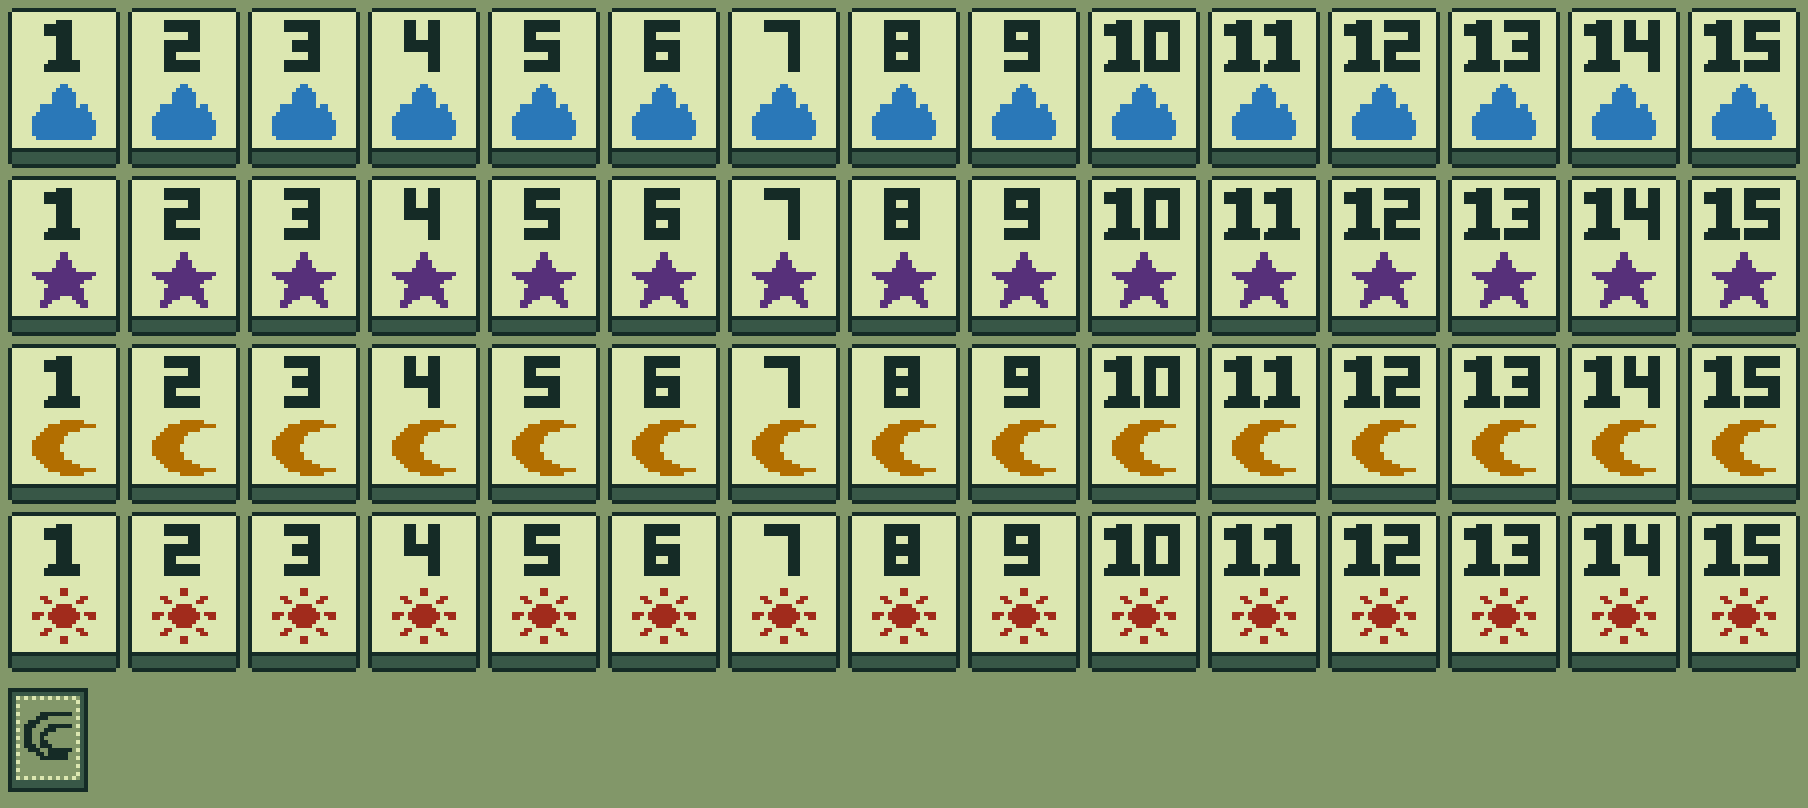
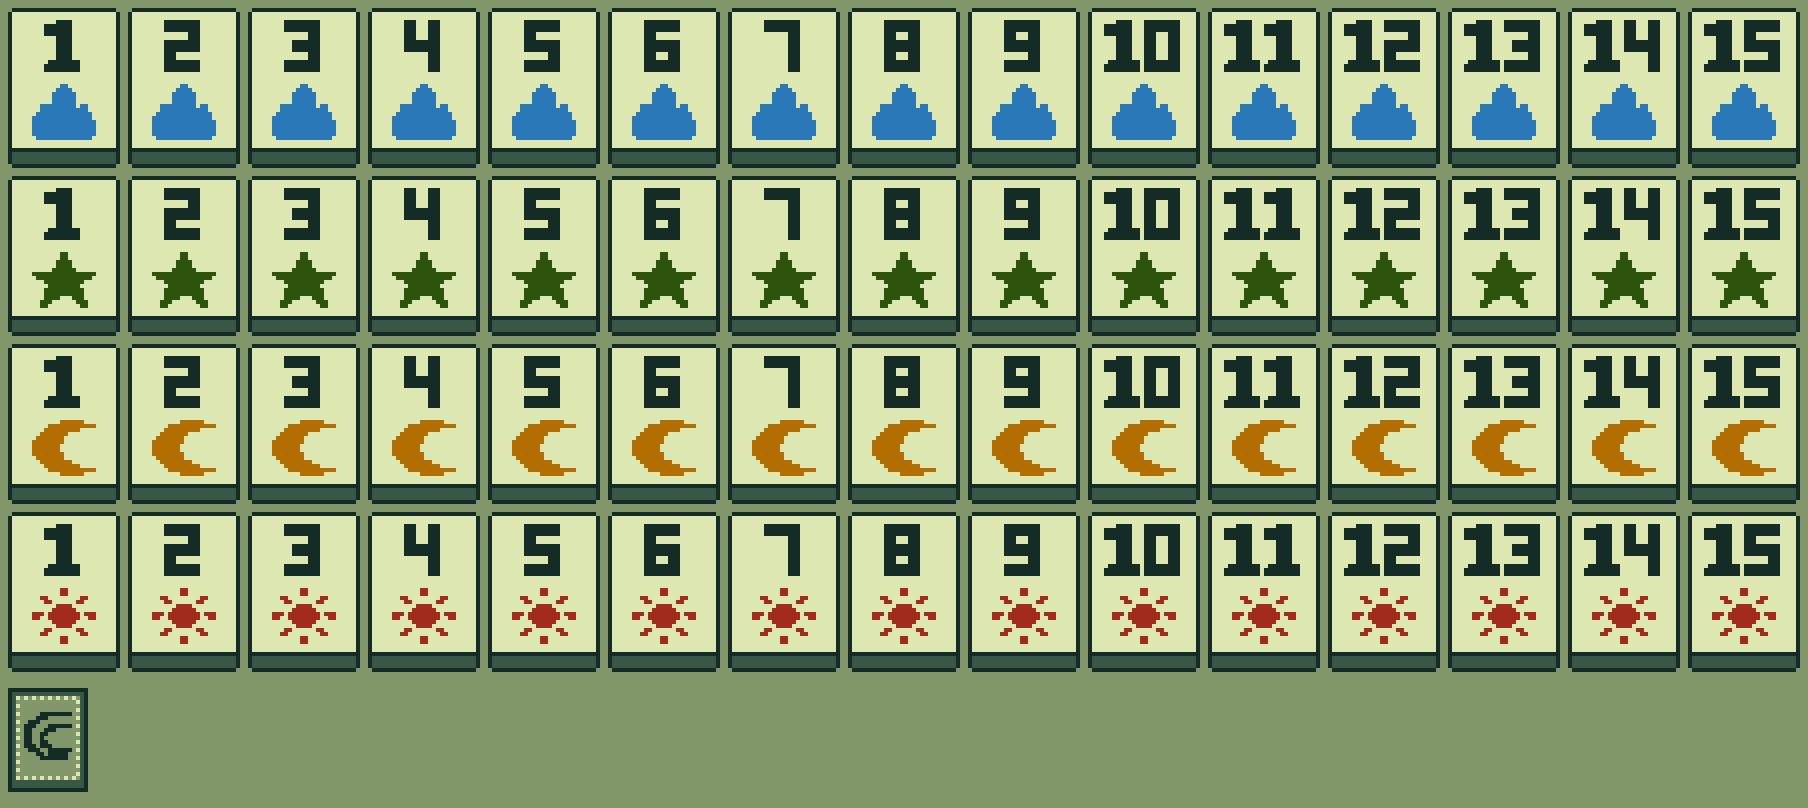
feat(web): ink the star suit deep yellow-green #2C540C
Carry the owner's star colour from the palette token through the rebuilt
atlases, manifest, record and contact sheets. Only PLTE entry 6 differs from
Q2, and the asset test proves it by restoring Q2's ink and matching each
published Q2 checksum. Contrast on paper is 6.8:1; the Machado red-green
minimum drops to 13.4 (star vs sun), so the spec now says those two read by
silhouette.

diff --git a/design/assets/build.test.ts b/design/assets/build.test.ts
@@ -139,14 +139,39 @@ test("product input record matches the converter, tests and provenance", () => {
   expect(record.trimEnd().split("\n").sort()).toEqual(expected.sort());
 });
 
-test("in-memory regeneration matches each committed output and its published Q2 checksum", () => {
+// The star ink is the only change since Q2. Every PNG keeps the star (or, in the grey
+// sheet, its grey) at PLTE entry 6; restoring Q2's #57307A (grey #434343) restores Q2's bytes.
+function withQ2Star(png: Buffer, grey: boolean) {
+  const copy = Buffer.from(png);
+  for (let pos = 8; pos < copy.length; ) {
+    const length = copy.readUInt32BE(pos);
+    if (copy.toString("ascii", pos + 4, pos + 8) === "PLTE") {
+      const entry = pos + 8 + 6 * 3;
+      expect([...copy.subarray(entry, entry + 3)]).toEqual(
+        grey ? [0x4a, 0x4a, 0x4a] : [...palette.star],
+      );
+      copy.set(grey ? [0x43, 0x43, 0x43] : [0x57, 0x30, 0x7a], entry);
+      copy.writeUInt32BE(
+        crc32(copy.subarray(pos + 4, pos + 8 + length)),
+        pos + 8 + length,
+      );
+    }
+    pos += length + 12;
+  }
+  return copy;
+}
+
+test("in-memory regeneration matches each committed output and, with Q2's star ink, its published Q2 checksum", () => {
   assert.deepEqual(fresh.manifest, manifest);
   expect(fresh.record).toEqual(record);
   const published = checksums("hashes.sha256");
   expect(fresh.outputs.size).toBe(18);
   for (const [path, data] of fresh.outputs) {
     expect(data.equals(readFileSync(join(root, path)))).toBe(true);
-    assert.equal(sha256(data), published.get(`outputs/${basename(path)}`));
+    assert.equal(
+      sha256(withQ2Star(data, path.endsWith("contact-gray-1x.png"))),
+      published.get(`outputs/${basename(path)}`),
+    );
   }
   expect(manifest.cells).toHaveLength(15);
   for (const { id, foreground, overrideCount } of manifest.cells) {

diff --git a/tests/visual-contracts/assets.test.ts b/tests/visual-contracts/assets.test.ts
@@ -44,7 +44,7 @@ test("sixty face addresses per atlas match the PNG grid and exclude the shared b
 test("atlas metadata, cell palettes, glyph boxes and font identities are frozen", () => {
   const ramp = ["#152B26", "#385747", "#829769", "#DCE7B1"];
   const faceBase = ["#152B26", "#385747", "#DCE7B1"];
-  const inks = ["#2A78B8", "#57307A", "#B26E00", "#A12B1C"];
+  const inks = ["#2A78B8", "#2C540C", "#B26E00", "#A12B1C"];
   expect(backColors).toEqual(ramp);
   expect(atlases.wide).toEqual({
     url: "/art/atlas-wide.png",

diff --git a/tests/visual-contracts/tokens.test.ts b/tests/visual-contracts/tokens.test.ts
@@ -20,7 +20,7 @@ test("sRGB palette, tile dimensions and motion match the locked values", () => {
     sage: [130, 151, 105],
     paper: [220, 231, 177],
     cloud: [42, 120, 184],
-    star: [87, 48, 122],
+    star: [44, 84, 12],
     moon: [178, 110, 0],
     sun: [161, 43, 28],
   });

diff --git a/apps/web/src/visual/tokens.ts b/apps/web/src/visual/tokens.ts
@@ -4,7 +4,7 @@ export const palette = {
   sage: [0x82, 0x97, 0x69],
   paper: [0xdc, 0xe7, 0xb1],
   cloud: [0x2a, 0x78, 0xb8],
-  star: [0x57, 0x30, 0x7a],
+  star: [0x2c, 0x54, 0x0c],
   moon: [0xb2, 0x6e, 0x00],
   sun: [0xa1, 0x2b, 0x1c],
 } as const;

diff --git a/docs/design/assets.md b/docs/design/assets.md
@@ -13,7 +13,7 @@
 
 팔레트와 숫자 칸의 규격은 [시각 명세 §1~3](visual-spec.md)에 있다. 두 PNG 합계 ≤50,000바이트, 한 변 ≤512px. 프레임 크기와 무관한 애플리케이션 경로이며 Vite public에서 dist로 복사한다. 네트워크 실패 시에도 타일 이름과 수치를 DOM 글자로 표시한다.
 
-Q2 후보 5개 합계는 2517B다. bayer-2.png(128B), bayer-5.png(132B), bayer-8.png(129B)는 Q1의 DOM 단색 결정에 따라 검사용으로만 보관한다. Q2 원본을 처리한 두 아틀라스는 각각 1173B·955B(합계 2128B)였다. 숫자 0..9, 구름·별·달·해, 등판 마크의 수정 픽셀 수는 각각 0이다. 숫자의 가로·세로 최소 획 2 이상, 해의 연결 성분은 36·5·5·4·4·4·4·4·4px였다. 제품 판정 파일은 `design/assets/manifest.json`이다. `files`는 배포 PNG 두 항목의 배열로 각 항목에 `{url,path,width,height,bytes,sha256,allowedColors,alpha}`를 둔다. path는 저장소 루트 상대 경로, url은 /art/ 절대 경로, sha256은 소문자 64자리다. `cells`는 원본 15셀의 `{id,foreground,overrideCount}` 배열이며 foreground는 수정 전 전경 수다. 배포 파일은 manifest의 bytes·sha256과 일치해야 한다. 같은 Q2 입력·인코더이면 1173/955B와 Q2 출력 해시까지 일치해야 한다. 원본·인코더를 바꾼 경우 새 출처·재생성 검사·Q2 비교를 기록하고 승인된 계약 변경 입력에서 manifest를 함께 갱신한다.
+Q2 후보 5개 합계는 2517B다. bayer-2.png(128B), bayer-5.png(132B), bayer-8.png(129B)는 Q1의 DOM 단색 결정에 따라 검사용으로만 보관한다. Q2 원본을 처리한 두 아틀라스는 각각 1173B·955B(합계 2128B)였다. 숫자 0..9, 구름·별·달·해, 등판 마크의 수정 픽셀 수는 각각 0이다. 숫자의 가로·세로 최소 획 2 이상, 해의 연결 성분은 36·5·5·4·4·4·4·4·4px였다. 제품 판정 파일은 `design/assets/manifest.json`이다. `files`는 배포 PNG 두 항목의 배열로 각 항목에 `{url,path,width,height,bytes,sha256,allowedColors,alpha}`를 둔다. path는 저장소 루트 상대 경로, url은 /art/ 절대 경로, sha256은 소문자 64자리다. `cells`는 원본 15셀의 `{id,foreground,overrideCount}` 배열이며 foreground는 수정 전 전경 수다. 배포 파일은 manifest의 bytes·sha256과 일치해야 한다. 같은 Q2 입력·인코더이면 1173/955B와, 별 항목을 Q2 값으로 되돌린 바이트의 Q2 출력 해시까지 일치해야 한다(아래 자동 검사). 원본·인코더를 바꾼 경우 새 출처·재생성 검사·Q2 비교를 기록하고 승인된 계약 변경 입력에서 manifest를 함께 갱신한다.
 
 ### 생성 원본 세트
 
@@ -39,7 +39,7 @@ W2 asset-production은 게시된 W1 기준 SHA에서 `docs/design/q2-source/`를
 
 **도구 확인.** 현장 Bun 1.3.6, Chrome 158.0.8127.89, Python 3.10.11/Pillow 12.0.0 확인. 보관된 Q2 스크립트는 원본·조판에 headless Chrome을 썼다. 제품 build.ts와 검사는 위 RGB 행 복원·indexed PNG 인코딩을 Bun 내장 node:zlib로 수행한다. Chrome은 대조 시트·브라우저 캡처에만 쓴다. npm 의존성 추가 없음. 제품 gate에서는 Bun으로 커밋된 PNG 청크 CRC를 검증하고 IDAT를 풀어 행 필터·PLTE/tRNS를 적용해 실제 픽셀을 검사한다. Chrome, Python, Pillow, GPU와 생성 호출은 제품 gate·Docker 빌드에 필요하지 않다.
 
-**자동 검사.** `bun test design/assets`는 세 raw PNG의 SHA-256을 제품 provenance 및 게시된 원본 체크섬과 대조한다. 원본+overrides에서 15셀 마스크와 배포 PNG 둘을 메모리에 새로 생성한다. 수정 좌표 중복/범위/동일값·floor(foreground/10) 상한 및 cells 기록을 다시 계산하고 세 커밋 마스크와 두 배포 PNG를 바이트 단위 대조한다. 기본 입력에서는 Q2 hashes.sha256의 해당 5항목과도 같아야 한다. asset-production, integrate-modules와 verify-release가 각 HEAD에서 이 명령을 독립 실행한다. manifest의 각 파일이 존재하고 이름 목록·크기·예산·SHA가 맞아야 한다. 각 texel은 alpha∈{0,255}, 비투명 색은 해당 셀의 허용 집합에 속해야 한다. 꼭짓점과 unused 영역의 알파는 0, 몸체·등판 내부는 255. 글리프 영역에서는 해당 마스크 밖 paper, 안쪽은 정확히 ink 또는 해당 문양색이다. 아틀라스별 60쌍 모두 다르고, 와이드·컴팩트에서 추출한 같은 패의 숫자·문양 마스크가 일치해야 한다. 0..9의 10개 마스크는 비어 있지 않고 서로 다르며, 모든 행·열의 비어 있지 않은 연속 획 길이 ≥2. 네 문양 해시가 다르고 해의 8방향 연결 성분은 큰 원반 1+분리된 살 8. 등판은 숫자나 문양 셀과 다르다. Bayer는 각 위치를 CPU 임곗값과 대조하고 점유율 2/5/8칸을 확인한다. 작업자는 회색조·단일 잉크 시트 결과를 기록한다. 소유자 개인의 1배·정수배 판독은 게시 후 체크로 남긴다.
+**자동 검사.** `bun test design/assets`는 세 raw PNG의 SHA-256을 제품 provenance 및 게시된 원본 체크섬과 대조한다. 원본+overrides에서 15셀 마스크와 배포 PNG 둘을 메모리에 새로 생성한다. 수정 좌표 중복/범위/동일값·floor(foreground/10) 상한 및 cells 기록을 다시 계산하고 세 커밋 마스크와 두 배포 PNG를 바이트 단위 대조한다. 2026-11-26 별 잉크 변경(#57307A → #2C540C) 뒤로 모든 출력 PNG는 PLTE 6번 항목(회색조 시트는 그 회색 #4A4A4A)만 Q2와 다르다. 기본 입력에서 그 항목을 Q2 값 #57307A(회색조 #434343)로 되돌린 바이트가 Q2 hashes.sha256의 해당 항목과 같아야 한다. 현재 출력의 해시는 manifest와 record에 있다. asset-production, integrate-modules와 verify-release가 각 HEAD에서 이 명령을 독립 실행한다. manifest의 각 파일이 존재하고 이름 목록·크기·예산·SHA가 맞아야 한다. 각 texel은 alpha∈{0,255}, 비투명 색은 해당 셀의 허용 집합에 속해야 한다. 꼭짓점과 unused 영역의 알파는 0, 몸체·등판 내부는 255. 글리프 영역에서는 해당 마스크 밖 paper, 안쪽은 정확히 ink 또는 해당 문양색이다. 아틀라스별 60쌍 모두 다르고, 와이드·컴팩트에서 추출한 같은 패의 숫자·문양 마스크가 일치해야 한다. 0..9의 10개 마스크는 비어 있지 않고 서로 다르며, 모든 행·열의 비어 있지 않은 연속 획 길이 ≥2. 네 문양 해시가 다르고 해의 8방향 연결 성분은 큰 원반 1+분리된 살 8. 등판은 숫자나 문양 셀과 다르다. Bayer는 각 위치를 CPU 임곗값과 대조하고 점유율 2/5/8칸을 확인한다. 작업자는 회색조·단일 잉크 시트 결과를 기록한다. 소유자 개인의 1배·정수배 판독은 게시 후 체크로 남긴다.
 
 **코드 도형.** 펠트·그림자·테두리·바닥·받침·칩 잔액·차례선·포커스·버튼·패널은 메시/CSS/DOM이다. 앞면 몸체와 등판 체커는 스크립트가 생성 원본 마스크에 더한 기하다. 각 4×4 Bayer 테스트 PNG는 도구의 대조 시트 전용이다. 오디오 파일·워드마크 이미지·전체 화면 배경 파일은 배포 목록에 없다.
 

diff --git a/docs/design/visual-spec.md b/docs/design/visual-spec.md
@@ -7,7 +7,7 @@
 | 결정 | 적용값 | 전환 시 바꿀 곳 |
 | --- | --- | --- |
 | G1 무대 | **고정 경사 직교 B.** Q1에서 비교 대상 A와 B 모두 12/12 조합의 혼합 블록 0, 읽는 앞면 17개 원본 픽셀 차이 0. B는 CPU 중앙값 1.00ms, 동기 4.00ms, 84회 그리기였다. | 판독 실패가 반복될 때만 평면 A와 앵커를 재검토한다. 비용 초과 시 table-scene이 B에서 병목을 수정한 뒤 동일 픽셀·성능 시편 전체를 재실행한다. |
-| G2 문양 | S. 파랑 구름, 보라 별, 호박 달, 빨강 해 | K로 전환하려면 별을 #B26E00, 달을 #1E7A3C로 바꾸고 아틀라스·색각 검사를 다시 실행한다. |
+| G2 문양 | S. 파랑 구름, 진한 연두 별, 호박 달, 빨강 해. 별은 2026-11-26 소유자 지시로 보라 #57307A에서 진한 연두 #2C540C로 바꿨다. | 문양색을 바꾸려면 `apps/web/src/visual/tokens.ts`의 해당 색만 고치고 `bun design/assets/build.ts`로 아틀라스·manifest·record를 다시 만든 뒤 §1의 대비·색각 값을 다시 적는다. |
 | G3 좁은 창 | DOM 전용 컴팩트. 같은 조작부로 WebGL 실패도 처리한다. | 작은 장면을 추가할 때는 컴팩트 중앙의 직전 제출만 Canvas로 교체하고 터치·청크 예산을 다시 잰다. |
 | G4 제작 범위 | 문양·숫자·등판 표식은 Codex 생성, 몸체·외곽선·턱·등판 테두리·체커·디더는 코드. 픽셀 수정은 원본 마스크 전경 수의 10%까지. | 선·체커까지 생성하려면 매니페스트의 원본 종류를 늘리고 Q2를 다시 통과한다. |
 
@@ -24,11 +24,11 @@
 | sage | #829769 | 바닥, 탁자 테두리 윗면, 비활성 버튼 |
 | paper | #DCE7B1 | 패 면, 상태·명령행 배경, 어두운 패널의 글자 |
 | cloud | #2A78B8 | 세 봉우리와 수평 밑변 |
-| star | #57307A | 속이 찬 다섯 꼭짓점 |
+| star | #2C540C | 속이 찬 다섯 꼭짓점(진한 연두) |
 | moon | #B26E00 | 오른쪽이 빈 초승달 |
 | sun | #A12B1C | 원반과 1px 이상 떨어진 광선 여덟 개 |
 
-문양색은 paper 위의 해당 글리프 전용이다. WCAG 대비는 ink/paper 11.5, paper/pine 6.1, ink/sage 4.7이다. 글자·비활성 사유는 이 세 쌍만 쓴다. 각 문양은 paper와 3.6/7.6/3.1/5.6 이상(반올림)이고 선택·오류·차례는 형태와 문구로 읽는다. 회색조에서도 별의 몸통과 해의 분리된 광선을 식별해야 한다. 세트 S의 Machado 모델 dE76 최솟값은 적색맹 23.9, 녹색맹 20.2, 청색맹 28.6이다. 모델값과 사람의 판독 시험을 각각 기록한다.
+문양색은 paper 위의 해당 글리프 전용이다. WCAG 대비는 ink/paper 11.5, paper/pine 6.1, ink/sage 4.7이다. 글자·비활성 사유는 이 세 쌍만 쓴다. 각 문양은 paper와 3.6/6.8/3.1/5.6 이상(반올림)이고 선택·오류·차례는 형태와 문구로 읽는다. 회색조에서도 별의 몸통과 해의 분리된 광선을 식별해야 한다. 별을 진한 연두로 바꾼 세트 S의 Machado 모델 dE76 최솟값은 적색맹 13.4, 녹색맹 13.4(둘 다 별–해), 청색맹 27.2(구름–별)로 Q2 기준 20보다 낮다. 적록 색각에서는 별과 해를 색이 아니라 속이 찬 별 몸통과 분리된 광선의 실루엣으로 구별한다. 모델값과 사람의 판독 시험을 각각 기록한다.
 
 좌표와 간격의 단위는 논리 px다. 1 외곽선·명암선, 2 틈·패널 받침·밑줄, 4 일반 패딩·턱, 5 선택 이동, 6 등판 피치, 8 패널 안쪽 여백, 12 구역 여백. 와이드 DOM의 좌표·선·패딩에만 k를 곱한다. 컴팩트 타일·상태선은 §3의 배율 2, 그 밖의 컴팩트 치수는 지정된 CSS px다. 모서리는 직각이며 타일의 네 꼭짓점만 1px 자른다. 패널의 받침은 별도 단색 하단 면이다. 주 버튼 ink/paper, 패스 paper/ink, 꺼짐 sage/ink. 버튼·패널은 즉시 교체한다.
 
